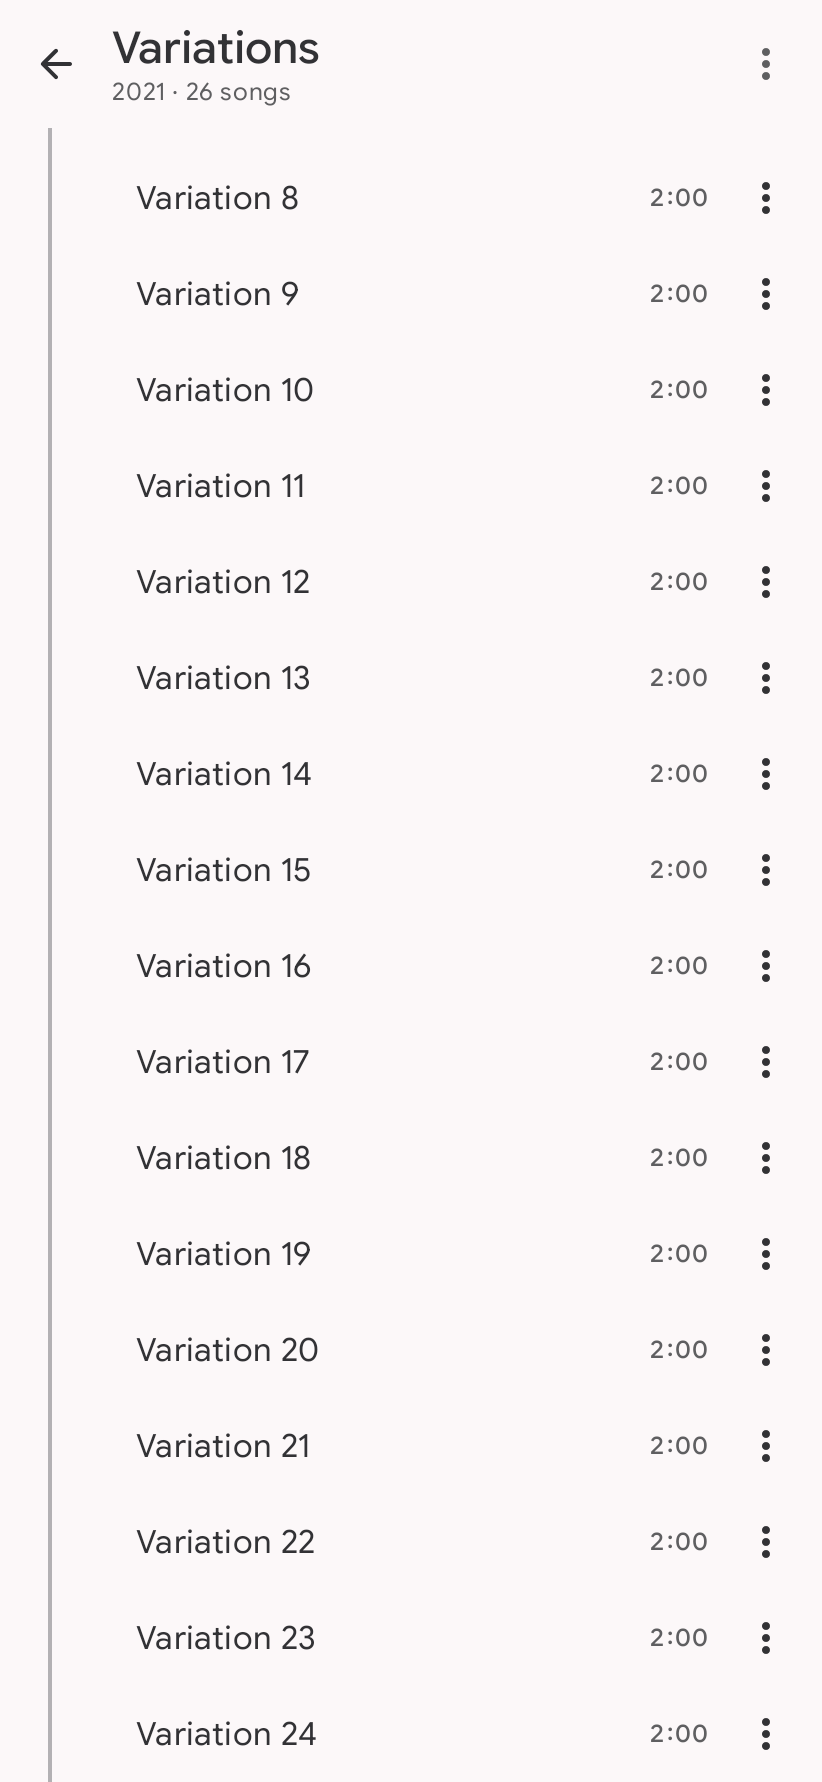
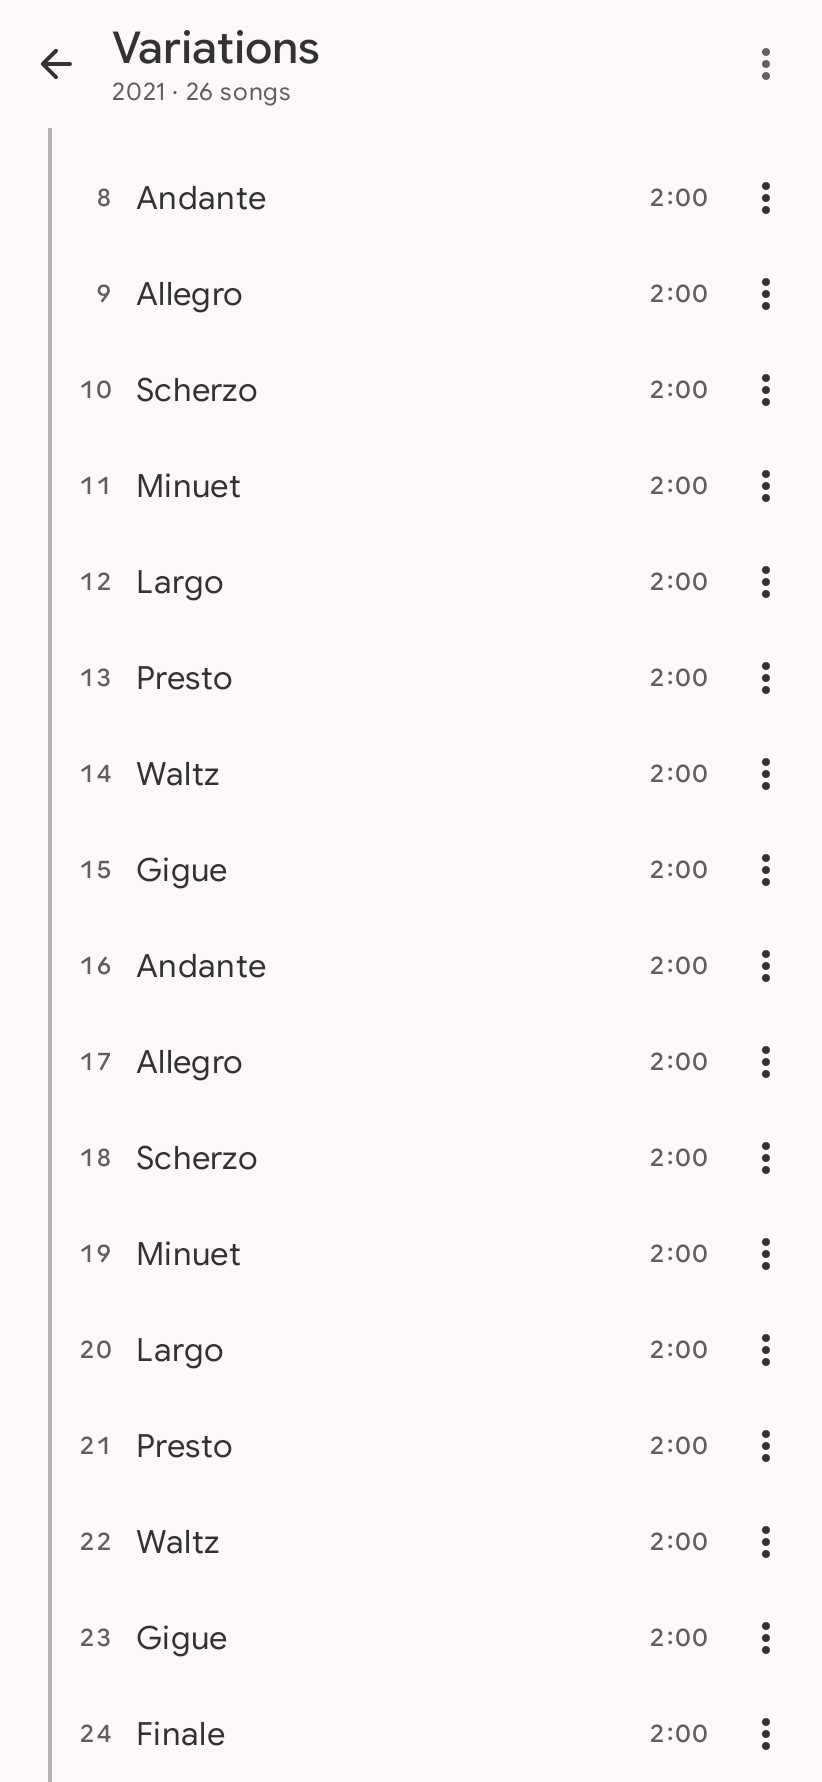
fix(library): keep long movement numerals on one line
Changelog: none

diff --git a/android/app/src/test/java/com/simplecityapps/shuttle/ui/screens/library/LibraryDetailScenarios.kt b/android/app/src/test/java/com/simplecityapps/shuttle/ui/screens/library/LibraryDetailScenarios.kt
@@ -99,8 +99,8 @@ fun longNumeralAlbumDetail(): AlbumDetailUiState {
         genres = listOf("Classical"),
     )
     val prelude = listOf("Allegro", "Adagio").mapIndexed { i, name -> movement(i + 1L, "Sonata No. 3", name, i + 1) }
-    val numerals = listOf("I", "II", "III", "IV", "V", "VI", "VII", "VIII", "IX", "X", "XI", "XII", "XIII", "XIV", "XV", "XVI", "XVII", "XVIII", "XIX", "XX", "XXI", "XXII", "XXIII", "XXIV")
-    val variations = numerals.mapIndexed { i, numeral -> movement(11L + i, "Theme and Variations", "$numeral. Variation ${i + 1}", i + 1) }
+    val names = listOf("Andante", "Allegro", "Scherzo", "Minuet", "Largo", "Presto", "Waltz", "Gigue")
+    val variations = (1..24).map { n -> movement(10L + n, "Theme and Variations", if (n == 24) "Finale" else names[n % names.size], n) }
     // A work of over 20 movements next to another starts collapsed; expand it.
     return classicalState(prelude + variations, toggled = setOf(variations.first().id))
 }

diff --git a/android/app/src/test/java/com/simplecityapps/shuttle/ui/screens/library/LibraryScreenshotTest.kt b/android/app/src/test/java/com/simplecityapps/shuttle/ui/screens/library/LibraryScreenshotTest.kt
@@ -278,7 +278,7 @@ class LibraryScreenshotTest {
     @Config(qualifiers = "w411dp-h891dp-xhdpi")
     fun phoneLongNumeralAlbumDetail() {
         detail.setAlbum(longNumeralAlbumDetail())
-        detail.scrollTo("Variation 24")
+        detail.scrollTo("Finale")
         shot("phone-album-detail-classical-long-numeral")
     }
 
@@ -286,7 +286,7 @@ class LibraryScreenshotTest {
     @Config(qualifiers = "w411dp-h891dp-xhdpi")
     fun phoneLongNumeralAlbumDetailLargeText() {
         detail.setAlbum(longNumeralAlbumDetail(), fontScale = 1.5f)
-        detail.scrollTo("Variation 24")
+        detail.scrollTo("Finale")
         shot("phone-album-detail-classical-long-numeral-large-text")
     }
 
